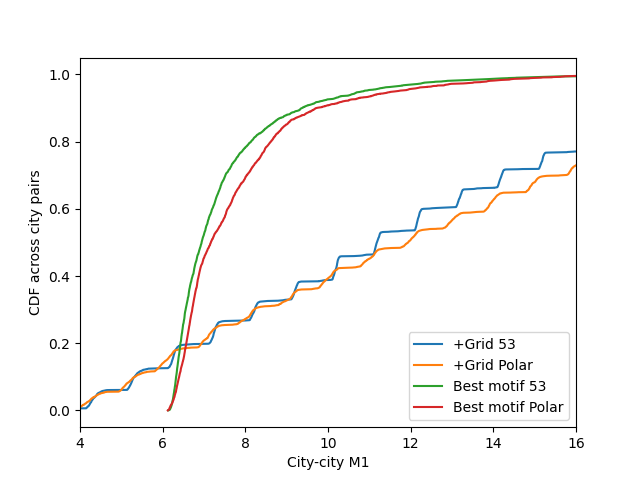
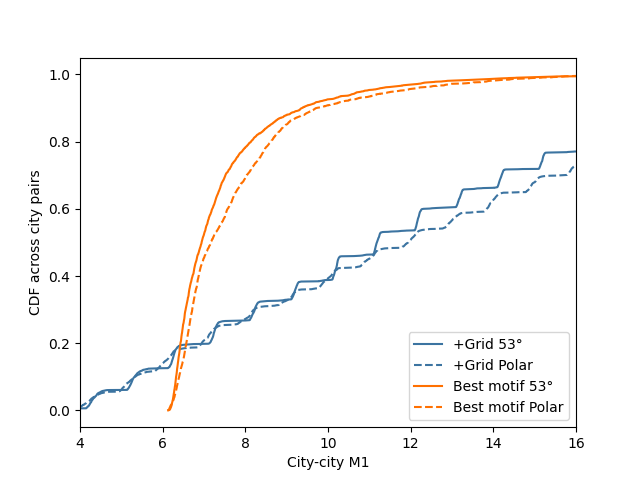
some minor changes in fig 5,10

diff --git a/hy533_project/code/main.py b/hy533_project/code/main.py
@@ -50,7 +50,7 @@ def reproduce_figure_5(rrg_stretch_list, rrg_hop_list, grid_stretch_list, grid_h
     grid_stretch_data_sorted = np.sort(grid_stretch_list)
     grid_stretch_p = 1. * np.arange(len(grid_stretch_list)) / (len(grid_stretch_list) - 1)
     plt.figure(5)
-    plt.plot(grid_stretch_data_sorted, grid_stretch_p, label = "+Grid stretch")
+    plt.plot(grid_stretch_data_sorted, grid_stretch_p, color="#3C74A1", label = "+Grid stretch")
 
     plt.figure(6)
     n, bins, patches = plt.hist(grid_hop_list, 200, density=True, histtype='step',
@@ -61,17 +61,17 @@ def reproduce_figure_5(rrg_stretch_list, rrg_hop_list, grid_stretch_list, grid_h
     y = y.cumsum()
     y /= y[-1]
     plt.figure(5)
-    plt.plot(bins, y, label="+Grid hop count")
+    plt.plot(bins, y, color="#3C74A1", linestyle="dashed", label="+Grid hop count")
 
     rrg_stretch_data_sorted = np.sort(rrg_stretch_list)
     rrg_stretch_p = 1. * np.arange(len(rrg_stretch_list)) / (len(rrg_stretch_list) - 1)
     plt.figure(5)
-    plt.plot(rrg_stretch_data_sorted, rrg_stretch_p, label = "RRG stretch")
+    plt.plot(rrg_stretch_data_sorted, rrg_stretch_p, color="#FF7000", label = "RRG stretch")
 
     rrg_hop_data_sorted = np.sort(rrg_hop_list)
     rrg_hop_p = 1. * np.arange(len(rrg_hop_list)) / (len(rrg_hop_list) - 1)
     plt.figure(5)
-    plt.plot(rrg_hop_data_sorted, rrg_hop_p, label = "RRG hop count")
+    plt.plot(rrg_hop_data_sorted, rrg_hop_p, color="#FF7000", linestyle="dashed", label = "RRG hop count")
 
     plt.legend()
     plt.xlabel("City-city stretch or hop count")
@@ -123,22 +123,22 @@ def reproduce_figure_10(grid_m1_list, grid_m1_90_list, best_m1_list, best_m1_90_
     grid_m1_data_sorted = np.sort(grid_m1_list)
     grid_m1_p = 1. * np.arange(len(grid_m1_list)) / (len(grid_m1_list) - 1)
     plt.figure(10)
-    plt.plot(grid_m1_data_sorted, grid_m1_p, label="+Grid 53")
+    plt.plot(grid_m1_data_sorted, grid_m1_p, color="#3C74A1", label="+Grid 53°")
 
     grid_m1_90_data_sorted = np.sort(grid_m1_90_list)
     grid_m1_90_p = 1. * np.arange(len(grid_m1_90_list)) / (len(grid_m1_90_list) - 1)
     plt.figure(10)
-    plt.plot(grid_m1_90_data_sorted, grid_m1_90_p, label="+Grid Polar")
+    plt.plot(grid_m1_90_data_sorted, grid_m1_90_p, color="#3C74A1", linestyle="dashed", label="+Grid Polar")
 
     best_m1_data_sorted = np.sort(best_m1_list)
     best_m1_p = 1. * np.arange(len(best_m1_list)) / (len(best_m1_list) - 1)
     plt.figure(10)
-    plt.plot(best_m1_data_sorted, best_m1_p, label="Best motif 53")
+    plt.plot(best_m1_data_sorted, best_m1_p, color="#FF7000", label="Best motif 53°")
 
     best_m1_90_data_sorted = np.sort(best_m1_90_list)
     best_m1_90_p = 1. * np.arange(len(best_m1_90_list)) / (len(best_m1_90_list) - 1)
     plt.figure(10)
-    plt.plot(best_m1_90_data_sorted, best_m1_90_p, label="Best motif Polar")
+    plt.plot(best_m1_90_data_sorted, best_m1_90_p, color="#FF7000", linestyle="dashed", label="Best motif Polar")
 
     plt.xlim(4, 16)
     plt.legend()
